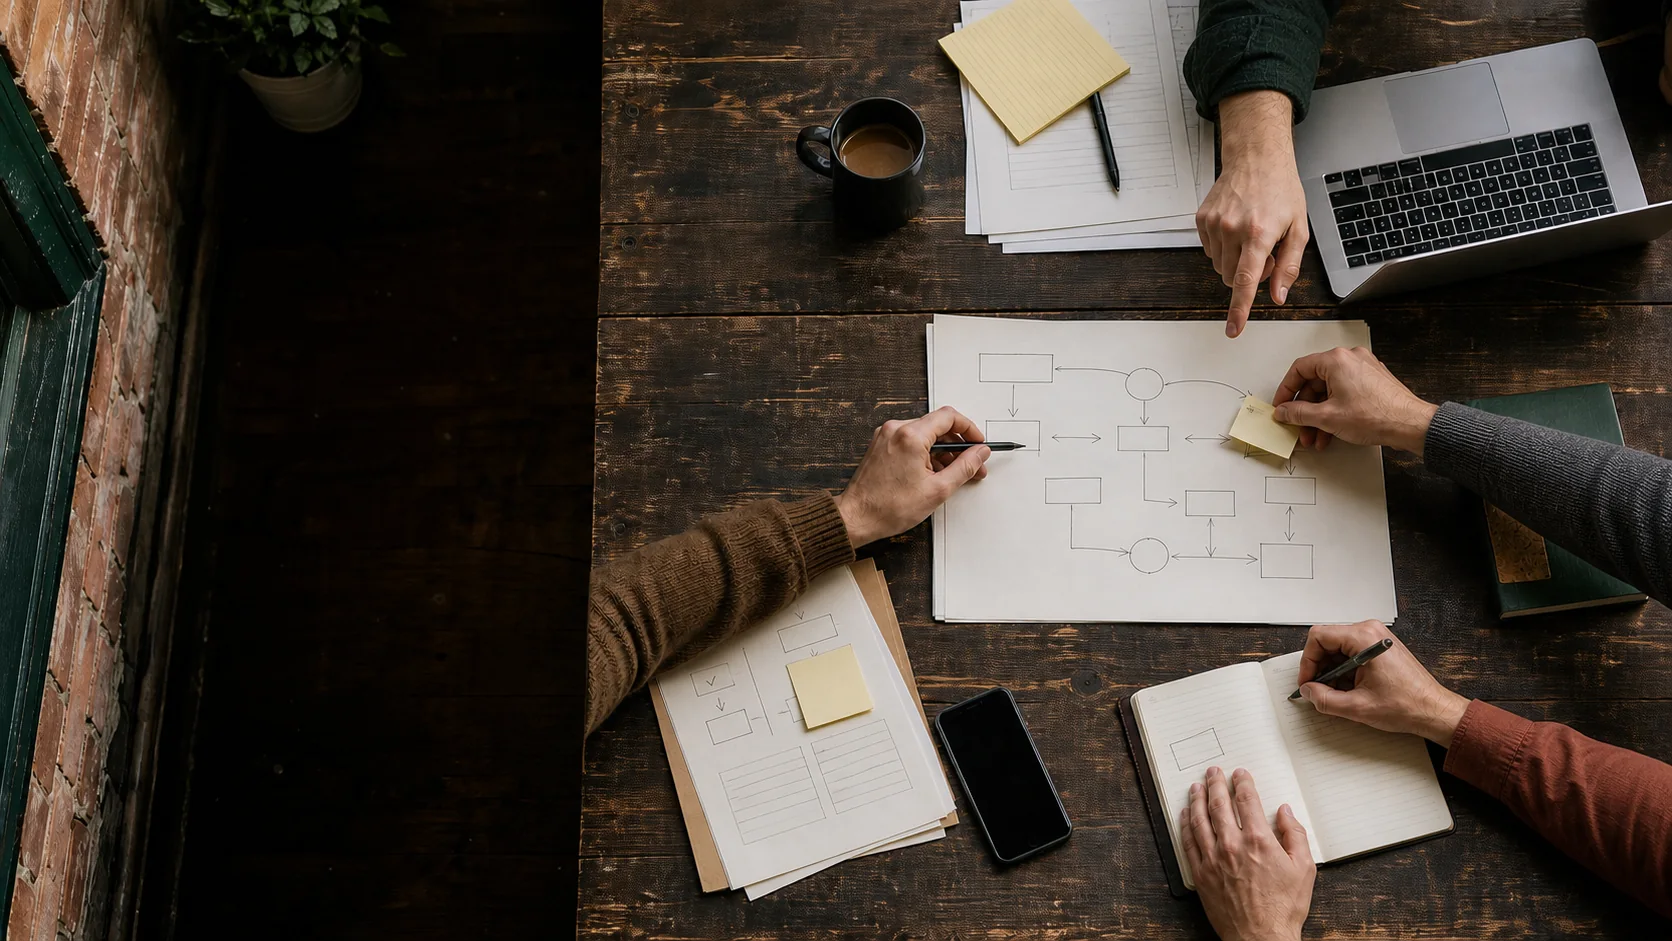
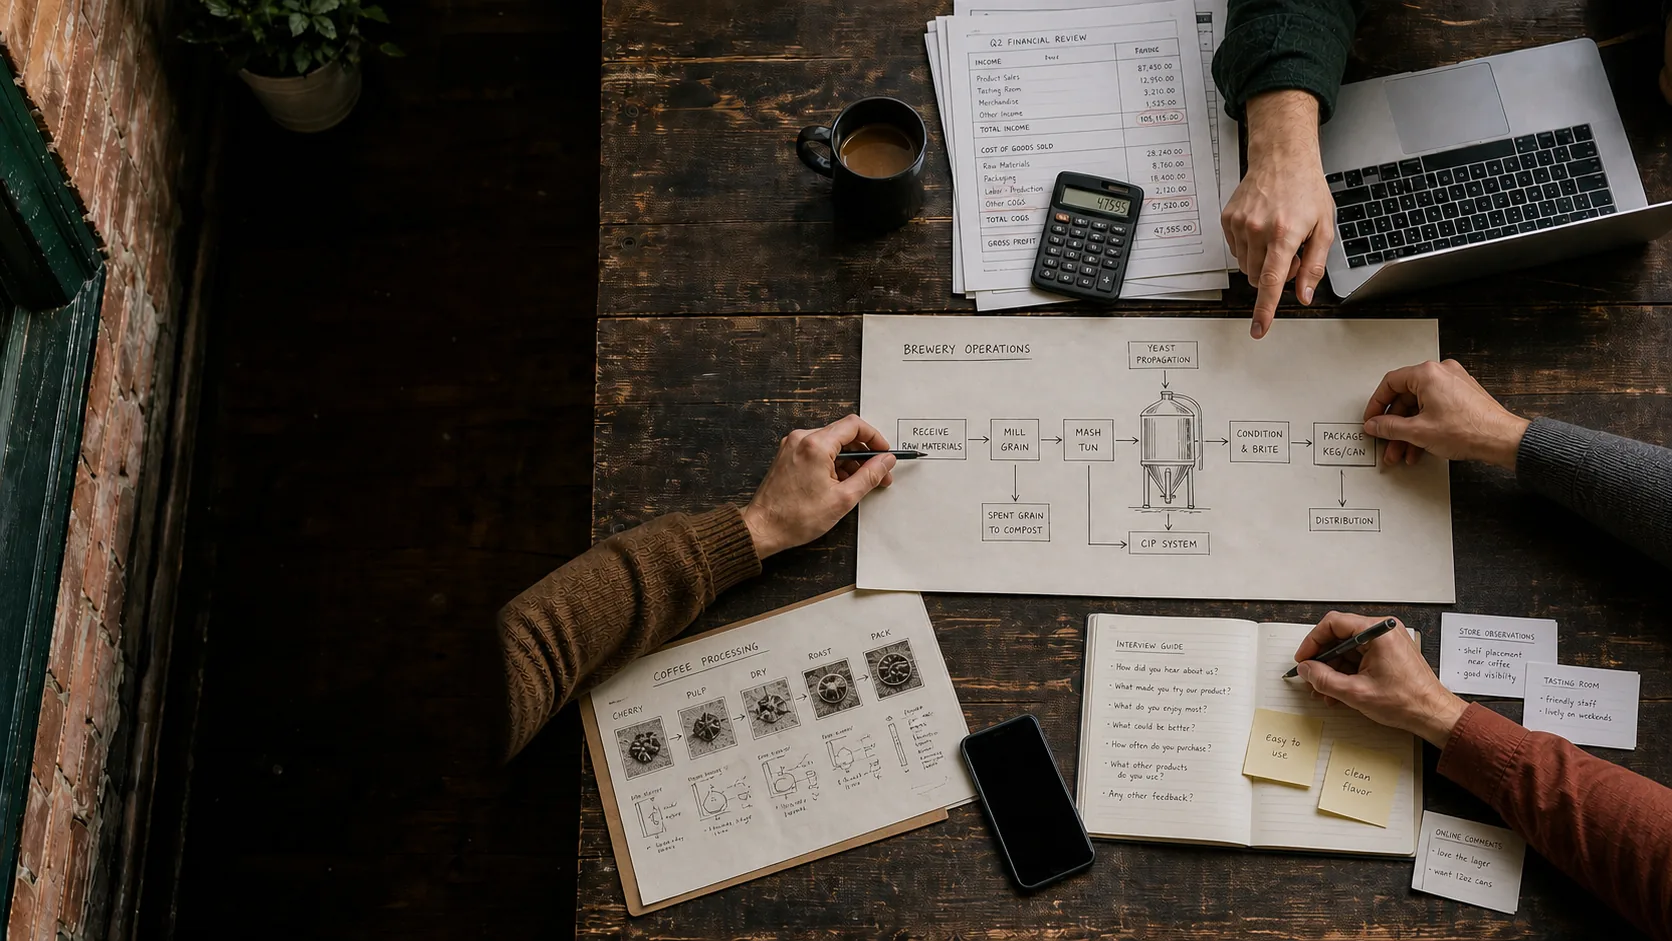
Add industry worktable hero and strengthen navigation

diff --git a/src/styles.css b/src/styles.css
@@ -109,9 +109,9 @@ a {
   align-items: center;
   justify-content: space-between;
   gap: 2rem;
-  margin: 0 var(--pad);
-  border-bottom: 1px solid rgba(242, 238, 228, 0.46);
-  text-shadow: 0 1px 8px rgba(0, 0, 0, 0.72);
+  padding: 0 var(--pad);
+  border-bottom: 1px solid rgba(242, 238, 228, 0.38);
+  background: rgba(17, 19, 17, 0.9);
 }
 
 .brand-lockup {
@@ -134,7 +134,7 @@ a {
   font-family: var(--mono);
   font-size: 0.58rem;
   font-weight: 700;
-  letter-spacing: 0.08em;
+  letter-spacing: 0;
   text-transform: uppercase;
 }
 
@@ -147,11 +147,11 @@ a {
 .desktop-nav button,
 .mobile-nav button {
   background: transparent;
-  color: var(--paper);
+  color: #fff;
   font-family: var(--mono);
-  font-size: 0.65rem;
+  font-size: 0.72rem;
   font-weight: 700;
-  letter-spacing: 0.08em;
+  letter-spacing: 0;
   text-transform: uppercase;
 }
 

diff --git a/src/App.tsx b/src/App.tsx
@@ -69,7 +69,7 @@ export default function App() {
         <img
           className="hero-image"
           src="/fan-works-hero.webp"
-          alt="A brick alley in The Fan neighborhood of Richmond, Virginia"
+          alt="Four collaborators reviewing brewery, finance, coffee, and customer research workflows"
           decoding="async"
         />
         <div className="hero-ink" aria-hidden="true" />